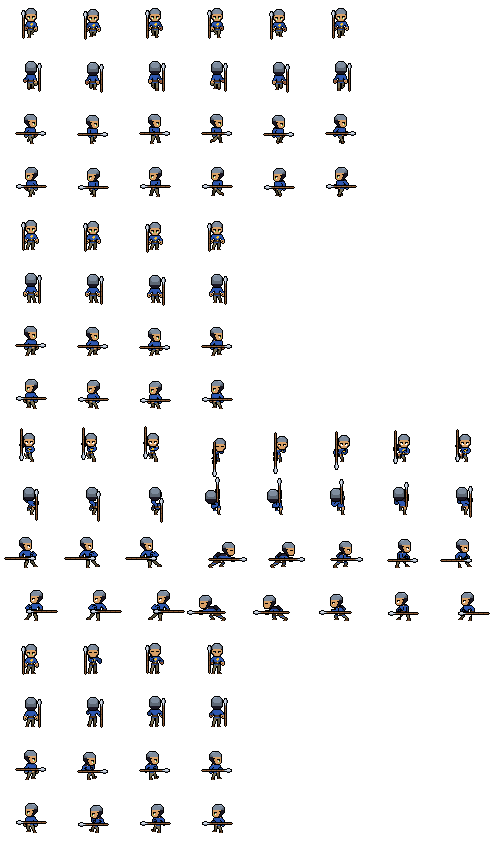
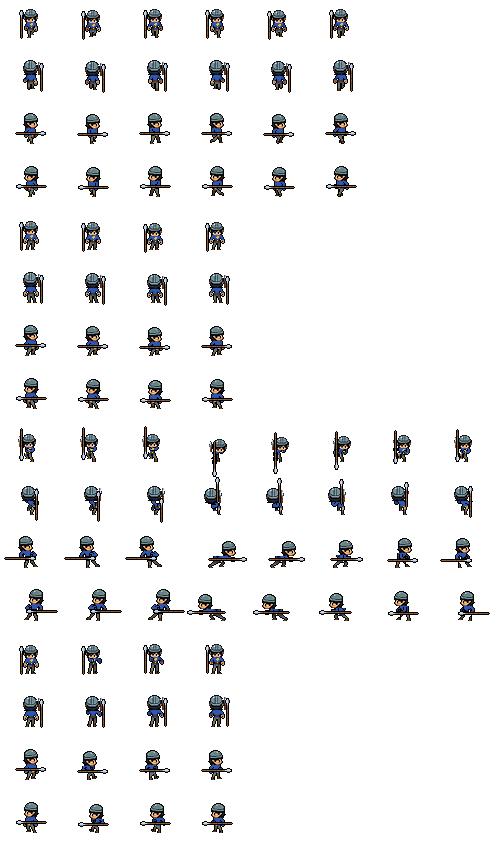
Heros Pixel Crawler avec la tete (casque) du heros Gemini
Claude-Session: https://claude.ai/code/session_01R6DULziKfSGZcEEcyC3Cch

diff --git a/Outils/habiller_heros.py b/Outils/habiller_heros.py
@@ -7,7 +7,7 @@ Usage : python3 Outils/habiller_heros.py [apercu.png]      (indépendant des aut
 import os
 import sys
 import numpy as np
-from PIL import Image
+from PIL import Image, ImageFilter
 from scipy import ndimage
 
 sys.path.insert(0, os.path.dirname(__file__))
@@ -128,7 +128,7 @@ def categorie_peau(c):
     return {PEAU_CLAIRE: "claire", PEAU_OMBRE: "ombre", PEAU_SOMBRE: "sombre", PEAU_LUMIERE: "lumiere"}.get(c)
 
 
-def habiller_image(case, vue):
+def habiller_image(case, vue, tete_gemini_activee=True):
     """Repeint un corps nu de 31 lignes : tête 14 lignes (casque en haut, cheveux sur les côtés, visage nu), torse 8 lignes (tunique, ceinture, mains nues),
     jambes 9 lignes (pantalon puis bottes). Les contours noirs, les yeux et les orteils ne bougent pas."""
     a = np.array(case).copy()
@@ -190,15 +190,81 @@ def habiller_image(case, vue):
         bx, by = int(round(cx)), y0 + 19
         if px[bx, by][3] > 0:
             px[bx, by] = OR + (255,)
+    if tete_gemini_activee:
+        img = remplacer_tete(img, vue, cx, y0)
+    return img
+
+
+# --- La TÊTE du héros Gemini (casque, cheveux, visage) posée sur le corps animé du pack ---------------------------------------
+LARGEUR_TETE = {"bas": 18, "haut": 18, "cote": 15}   # largeur (px) de la tête Gemini selon la vue : de face / de dos, tête large de chibi comme le héros Gemini ; de profil 15
+_TETES = {}
+
+
+def _detourer(arr, boite):
+    x0, y0, x1, y1 = boite
+    c = arr[y0:y1, x0:x1].copy()
+    r, g, b = c[..., 0], c[..., 1], c[..., 2]
+    fond = (r > 150) & (b > 150) & (g < 120)
+    lab, n = ndimage.label(~fond)
+    tailles = ndimage.sum(np.ones_like(lab), lab, range(1, n + 1))
+    m = np.isin(lab, [i + 1 for i, t in enumerate(tailles) if t > tailles.max() * 0.03])
+    m &= ~ndimage.binary_dilation(fond, iterations=2) | ndimage.binary_erosion(m, iterations=3)
+    gris = m & (np.abs(r - g) < 30) & (np.abs(g - b) < 40) & (r > 85) & (r < 155) & (b > 95)
+    cx = float(np.median(np.nonzero(gris)[1])) if gris.any() else c.shape[1] / 2
+    c[~m] = (16, 16, 22)
+    al = (m * 255).astype(np.uint8)
+    return Image.merge("RGBA", (*Image.fromarray(c.astype(np.uint8)).split(), Image.fromarray(al))), c, m, cx
+
+
+def tete_gemini(vue):
+    """Tête du héros Gemini réduite à LARGEUR_TETE px : (image RGBA, x du centre du casque dans l'image)."""
+    if vue in _TETES:
+        return _TETES[vue]
+    base = os.path.join(RACINE, "Assets", "Gemini", "originaux")
+    if vue == "cote":
+        arr = np.array(Image.open(os.path.join(base, "heros_profil.jpg")).convert("RGB")).astype(int)
+        boite, depart = (254, 24, 411, 318), "tunique"
+    else:
+        arr = np.array(Image.open(os.path.join(base, "heros.jpg")).convert("RGB")).astype(int)
+        boite, depart = ((5, 0, 145, 190), "tunique") if vue == "bas" else ((5, 190, 145, 385), "cape")
+    im, c, m, cx = _detourer(arr, boite)
+    r, g, b = c[..., 0], c[..., 1], c[..., 2]
+    vetement = m & (b > 140) & (r < 90) & (g < 130) if depart == "tunique" else m & (r > 100) & (r < 190) & (g > 55) & (g < 110) & (b < 70)
+    cou = int(np.nonzero(vetement.sum(axis=1) >= (8 if vue != "cote" else 6))[0].min())
+    tete = im.crop((0, 0, im.width, cou))
+    tete = tete.crop(tete.getchannel("A").getbbox()) if tete.getchannel("A").getbbox() else tete
+    x_casque = cx - im.getchannel("A").getbbox()[0] if False else cx
+    # recadrage : on garde la position du centre du casque après le recadrage
+    bb0 = im.crop((0, 0, im.width, cou)).getchannel("A").getbbox()
+    cx_local = cx - bb0[0]
+    echelle = LARGEUR_TETE[vue] / tete.width
+    w, h = LARGEUR_TETE[vue], max(1, round(tete.height * echelle))
+    rgb = Image.merge("RGB", tete.split()[:3]).filter(ImageFilter.GaussianBlur(0.5)).resize((w, h), Image.LANCZOS)
+    rgb = rgb.filter(ImageFilter.UnsharpMask(radius=0.8, percent=110, threshold=2))
+    al = tete.getchannel("A").resize((w, h), Image.LANCZOS).point(lambda v: 255 if v > 110 else 0)
+    petite = Image.merge("RGBA", (*rgb.split(), al))
+    _TETES[vue] = (petite, cx_local * echelle)
+    return _TETES[vue]
+
+
+def remplacer_tete(img, vue, cx_tete, y0):
+    """Efface la tête du pack (lignes 0 à 13 du corps) et pose la tête Gemini, son bas sur la ligne du menton."""
+    a = np.array(img).copy()
+    a[y0:y0 + 14, :, 3] = 0
+    img = Image.fromarray(a, "RGBA")
+    tete, cx_local = tete_gemini(vue)
+    x = int(round(cx_tete - cx_local))
+    y = y0 + 14 - tete.height
+    img.alpha_composite(tete, (x, y))
     return img
 
 
 def ajouter_lance_portee(img, vue, y0_ref, bob):
     """Lance portée au côté (marche, repos, touché) : verticale à gauche de face, verticale à droite de dos, horizontale devant le ventre de profil."""
     if vue == "bas":
-        lance(img, (24, y0_ref + 2 + bob), (0, -1), 28)
+        lance(img, (22, y0_ref + 2 + bob), (0, -1), 28)
     elif vue == "haut":
-        lance(img, (40, y0_ref + 2 + bob), (0, -1), 28)
+        lance(img, (42, y0_ref + 2 + bob), (0, -1), 28)
     else:
         lance(img, (46, y0_ref + 19 + bob), (1, 0), 30)
     return img

diff --git a/CLAUDE.md b/CLAUDE.md
@@ -1009,3 +1009,4 @@
   Lance portée au côté dans les marches/repos (verticale à gauche de face, à droite de dos, horizontale devant le ventre de profil), recalée sur le rebond du corps. -> `Assets/Heros/heros_pc.png` (16 lignes x 8 colonnes de cases 62x53 ; lignes : marche/repos/estoc/touché x bas, haut, droite, gauche ; pieds à la ligne 39).
   `player.gd` : `HEROS_PC` PRIORITAIRE sur `HEROS_G` (`_creer_animations_pc`, offset (0,-8), estoc 8 images à 30 i/s, la lance du pack et `_lance_g` ne sont plus dessinées) ; pour revenir au héros Gemini : renommer/supprimer `heros_pc.png`. Aperçu avant/après : `Outils/apercus/comparaison_heros.png`.
   Pack : usage commercial et modifications autorisés, pas de revente des fichiers seuls (`Terms.txt`). Reste à régler selon l'avis de l'utilisateur : taille (31 px de haut vs 25), visage, couleurs, vitesse de marche (10 i/s), poses `touche` non branchées dans `blesser`, `Run_Base` (course) non utilisé, mort (`Death_Base`) non utilisée.
+- 2026-11-16 : retour « je préférerais avec le casque de mon héros actuel, là ça fait comme les autres PNJ du village ». `habiller_heros.py` : la TÊTE du pack (lignes 0 à 13 du corps) est remplacée par la TÊTE DU HÉROS GEMINI (casque en dôme, cheveux, visage ; extraite de `originaux/heros.jpg` de face / de dos et de `heros_profil.jpg` de profil, coupée au col de la tunique / à la cape, réduite à `LARGEUR_TETE` = 18 px de face et de dos, 15 px de profil, bas de la tête sur la ligne du menton du corps, centrée sur la tête du corps de chaque image) ; le reste (corps animé, tunique, lance) inchangé ; lance de face / dos écartée de 2 px de la tête. `heros_pc.png` régénéré (cases 62x53, `player.gd` inchangé), tests OK, bot `heros` OK, aperçu `Outils/apercus/comparaison_heros.png` mis à jour. Pas joué.
